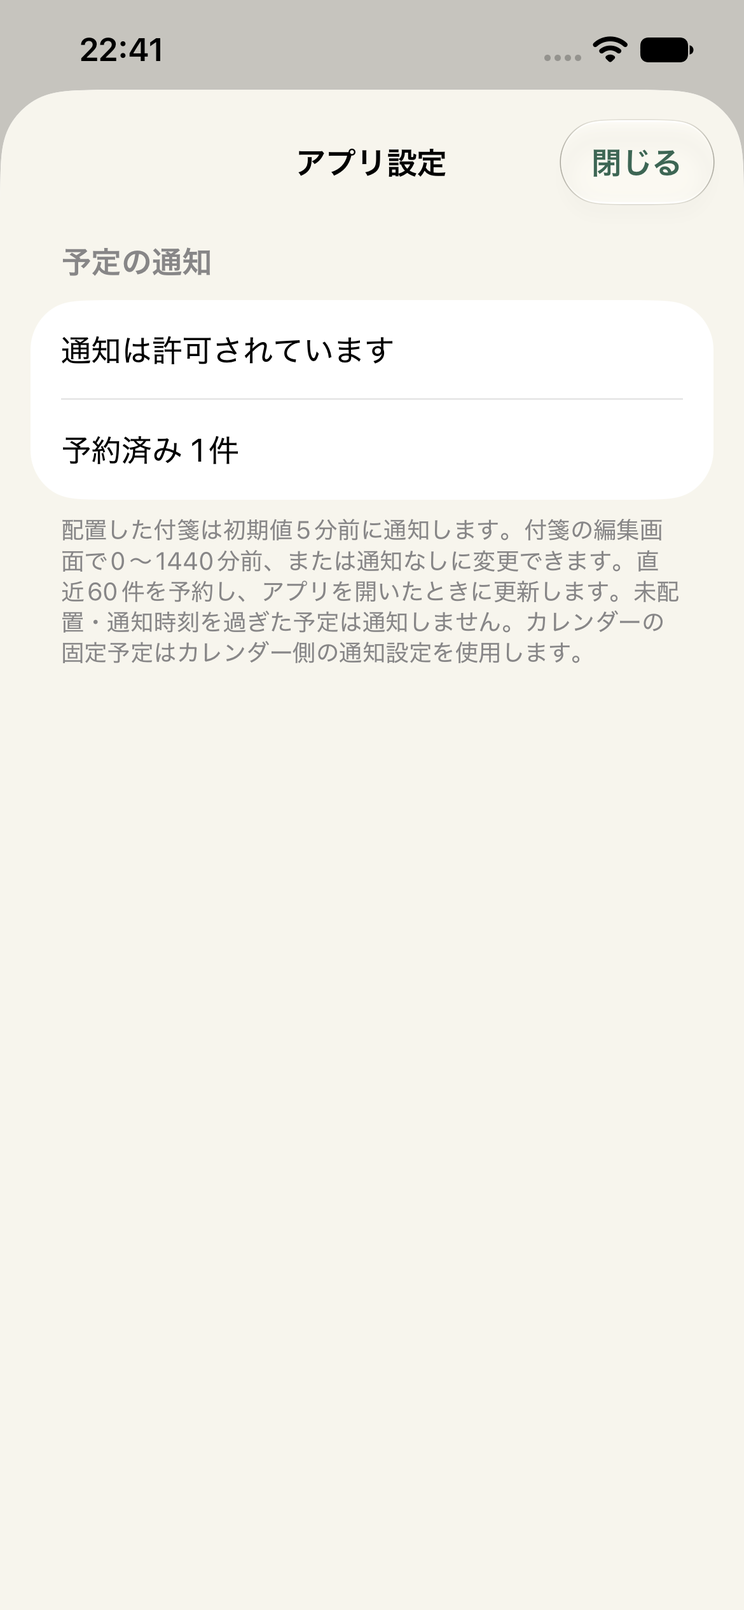
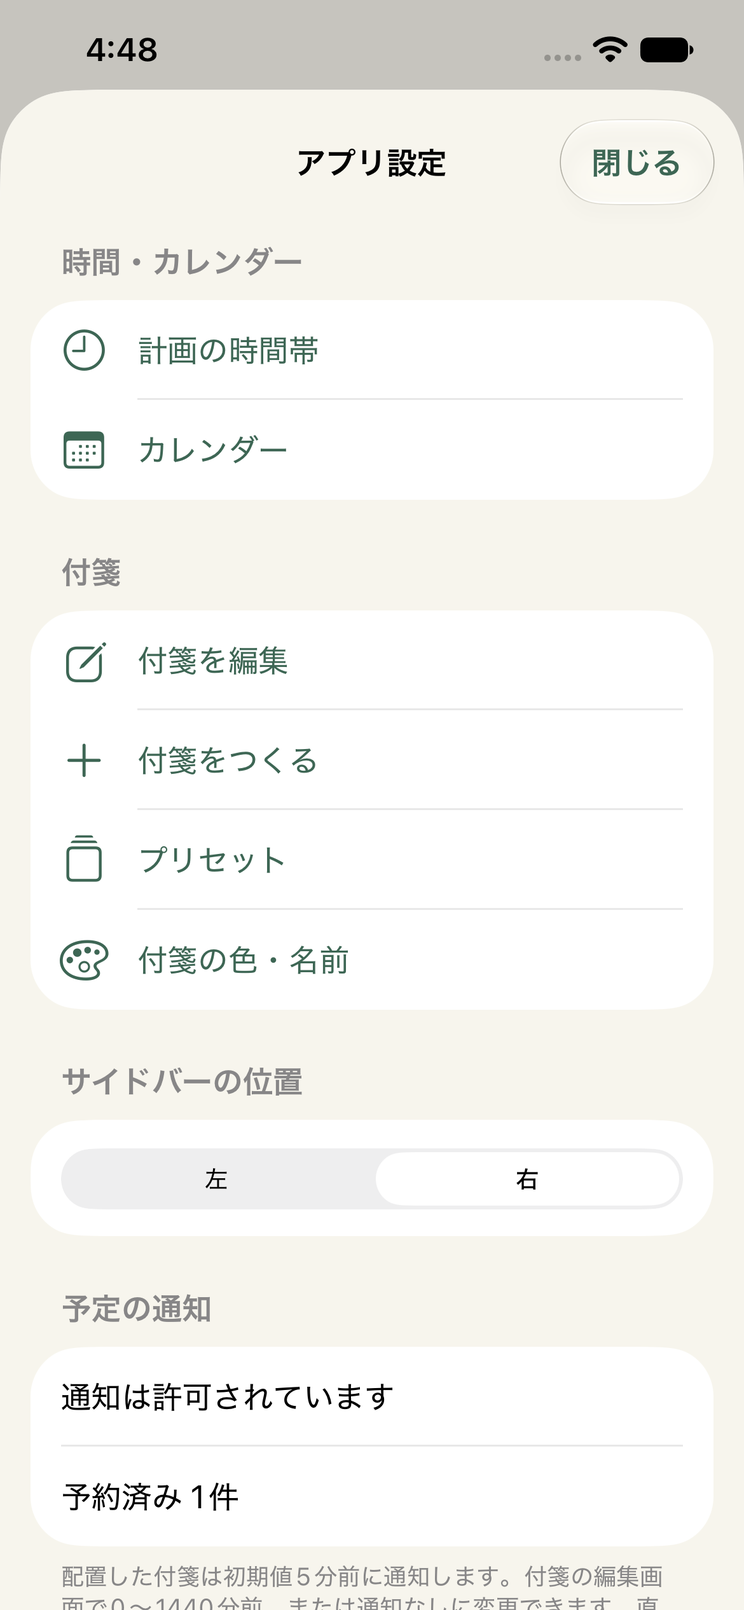
Consolidate planner configuration and sticky editing under settings

diff --git a/docs/screenshots/index.html b/docs/screenshots/index.html
@@ -1,1 +1,1 @@
-<!doctype html><html lang="ja"><meta charset="utf-8"><meta name="viewport" content="width=device-width,initial-scale=1"><title>予定館・実機能確認</title><style>body{background:#f7f5ed;color:#293b35;font:15px system-ui;margin:32px}h1{font-size:24px}.grid{display:grid;grid-template-columns:repeat(auto-fit,minmax(240px,1fr));gap:28px}figure{margin:0}img{width:100%;max-width:390px;border-radius:24px;box-shadow:0 8px 32px #293b3520}figcaption{margin:12px 0 20px}p{line-height:1.8}</style><h1>予定館 / シミュレーター動作確認</h1><p>iPhone 17e・iOS 27。XCTestで実際に操作した画面です。デモ表記のある画面はサンプル予定、カレンダー画面はシミュレーターのEventKitに登録した検証用予定を使用しています。</p><div class="grid"><figure><a href="01-day-planner.png"><img src="01-day-planner.png" alt="01-day-planner"></a><figcaption>01-day-planner</figcaption></figure><figure><a href="02-presets.png"><img src="02-presets.png" alt="02-presets"></a><figcaption>02-presets</figcaption></figure><figure><a href="03-sticky-editor.png"><img src="03-sticky-editor.png" alt="03-sticky-editor"></a><figcaption>03-sticky-editor</figcaption></figure><figure><a href="04-overlap-after-drag.png"><img src="04-overlap-after-drag.png" alt="04-overlap-after-drag"></a><figcaption>04-overlap-after-drag</figcaption></figure><figure><a href="05-resize-overlap.png"><img src="05-resize-overlap.png" alt="05-resize-overlap"></a><figcaption>05-resize-overlap</figcaption></figure><figure><a href="06-day-overview.png"><img src="06-day-overview.png" alt="06-day-overview"></a><figcaption>06-day-overview</figcaption></figure><figure><a href="07-calendar-settings.png"><img src="07-calendar-settings.png" alt="07-calendar-settings"></a><figcaption>07-calendar-settings</figcaption></figure><figure><a href="08-real-calendar-events.png"><img src="08-real-calendar-events.png" alt="08-real-calendar-events"></a><figcaption>08-real-calendar-events</figcaption></figure><figure><a href="09-start-time-drag.png"><img src="09-start-time-drag.png" alt="09-start-time-drag"></a><figcaption>09-start-time-drag</figcaption></figure><figure><a href="10-swipe-next-day.png"><img src="10-swipe-next-day.png" alt="10-swipe-next-day"></a><figcaption>10-swipe-next-day</figcaption></figure><figure><a href="11-color-settings.png"><img src="11-color-settings.png" alt="11-color-settings"></a><figcaption>11-color-settings</figcaption></figure><figure><a href="12-named-color-picker.png"><img src="12-named-color-picker.png" alt="12-named-color-picker"></a><figcaption>12-named-color-picker</figcaption></figure><figure><a href="13-custom-colors.png"><img src="13-custom-colors.png" alt="13-custom-colors"></a><figcaption>13-custom-colors</figcaption></figure><figure><a href="14-expanded-color-picker.png"><img src="14-expanded-color-picker.png" alt="14-expanded-color-picker"></a><figcaption>14-expanded-color-picker</figcaption></figure><figure><a href="15-five-am-plan.png"><img src="15-five-am-plan.png" alt="15-five-am-plan"></a><figcaption>15-five-am-plan</figcaption></figure><figure><a href="16-planning-hours-settings.png"><img src="16-planning-hours-settings.png" alt="16-planning-hours-settings"></a><figcaption>16-planning-hours-settings</figcaption></figure><figure><a href="17-custom-hours-and-outside-sticky.png"><img src="17-custom-hours-and-outside-sticky.png" alt="17-custom-hours-and-outside-sticky"></a><figcaption>17-custom-hours-and-outside-sticky</figcaption></figure><figure><a href="18-two-zone-planner.png"><img src="18-two-zone-planner.png" alt="18-two-zone-planner"></a><figcaption>18-two-zone-planner</figcaption></figure><figure><a href="19-detail-memo.png"><img src="19-detail-memo.png" alt="19-detail-memo"></a><figcaption>19-detail-memo</figcaption></figure><figure><a href="20-three-zone-planner.png"><img src="20-three-zone-planner.png" alt="20-three-zone-planner"></a><figcaption>20-three-zone-planner</figcaption></figure><figure><a href="21-switch-to-schedule-details.png"><img src="21-switch-to-schedule-details.png" alt="21-switch-to-schedule-details"></a><figcaption>21-switch-to-schedule-details</figcaption></figure><figure><a href="22-five-minute-zoom.png"><img src="22-five-minute-zoom.png" alt="22-five-minute-zoom"></a><figcaption>22-five-minute-zoom</figcaption></figure><figure><a href="23-five-minute-standard.png"><img src="23-five-minute-standard.png" alt="23-five-minute-standard"></a><figcaption>23-five-minute-standard</figcaption></figure><figure><a href="24-pinch-timeline.png"><img src="24-pinch-timeline.png" alt="24-pinch-timeline"></a><figcaption>24-pinch-timeline</figcaption></figure><figure><a href="25-scroll-on-event.png"><img src="25-scroll-on-event.png" alt="25-scroll-on-event"></a><figcaption>25-scroll-on-event</figcaption></figure><figure><a href="26-daily-preset-count.png"><img src="26-daily-preset-count.png" alt="26-daily-preset-count"></a><figcaption>26-daily-preset-count</figcaption></figure><figure><a href="27-daily-stickies.png"><img src="27-daily-stickies.png" alt="27-daily-stickies"></a><figcaption>27-daily-stickies</figcaption></figure><figure><a href="28-fullscreen-day-timeline.png"><img src="28-fullscreen-day-timeline.png" alt="28-fullscreen-day-timeline"></a><figcaption>28-fullscreen-day-timeline</figcaption></figure><figure><a href="30-fullscreen-entry.png"><img src="30-fullscreen-entry.png" alt="30-fullscreen-entry"></a><figcaption>30-fullscreen-entry</figcaption></figure><figure><a href="31-folded-short-events.png"><img src="31-folded-short-events.png" alt="31-folded-short-events"></a><figcaption>31-folded-short-events</figcaption></figure><figure><a href="32-sticky-reminder.png"><img src="32-sticky-reminder.png" alt="32-sticky-reminder"></a><figcaption>32-sticky-reminder</figcaption></figure><figure><a href="33-reminder-settings.png"><img src="33-reminder-settings.png" alt="33-reminder-settings"></a><figcaption>33-reminder-settings</figcaption></figure><figure><a href="34-sidebar-position-settings.png"><img src="34-sidebar-position-settings.png" alt="34-sidebar-position-settings"></a><figcaption>34-sidebar-position-settings</figcaption></figure><figure><a href="35-sidebar-left.png"><img src="35-sidebar-left.png" alt="35-sidebar-left"></a><figcaption>35-sidebar-left</figcaption></figure><figure><a href="36-sidebar-left-landscape.png"><img src="36-sidebar-left-landscape.png" alt="36-sidebar-left-landscape"></a><figcaption>36-sidebar-left-landscape</figcaption></figure></div></html>
+<!doctype html><html lang="ja"><meta charset="utf-8"><meta name="viewport" content="width=device-width,initial-scale=1"><title>予定館・実機能確認</title><style>body{background:#f7f5ed;color:#293b35;font:15px system-ui;margin:32px}h1{font-size:24px}.grid{display:grid;grid-template-columns:repeat(auto-fit,minmax(240px,1fr));gap:28px}figure{margin:0}img{width:100%;max-width:390px;border-radius:24px;box-shadow:0 8px 32px #293b3520}figcaption{margin:12px 0 20px}p{line-height:1.8}</style><h1>予定館 / シミュレーター動作確認</h1><p>iPhone 17e・iOS 27。XCTestで実際に操作した画面です。デモ表記のある画面はサンプル予定、カレンダー画面はシミュレーターのEventKitに登録した検証用予定を使用しています。</p><div class="grid"><figure><a href="01-day-planner.png"><img src="01-day-planner.png" alt="01-day-planner"></a><figcaption>01-day-planner</figcaption></figure><figure><a href="02-presets.png"><img src="02-presets.png" alt="02-presets"></a><figcaption>02-presets</figcaption></figure><figure><a href="03-sticky-editor.png"><img src="03-sticky-editor.png" alt="03-sticky-editor"></a><figcaption>03-sticky-editor</figcaption></figure><figure><a href="04-overlap-after-drag.png"><img src="04-overlap-after-drag.png" alt="04-overlap-after-drag"></a><figcaption>04-overlap-after-drag</figcaption></figure><figure><a href="05-resize-overlap.png"><img src="05-resize-overlap.png" alt="05-resize-overlap"></a><figcaption>05-resize-overlap</figcaption></figure><figure><a href="06-day-overview.png"><img src="06-day-overview.png" alt="06-day-overview"></a><figcaption>06-day-overview</figcaption></figure><figure><a href="07-calendar-settings.png"><img src="07-calendar-settings.png" alt="07-calendar-settings"></a><figcaption>07-calendar-settings</figcaption></figure><figure><a href="08-real-calendar-events.png"><img src="08-real-calendar-events.png" alt="08-real-calendar-events"></a><figcaption>08-real-calendar-events</figcaption></figure><figure><a href="09-start-time-drag.png"><img src="09-start-time-drag.png" alt="09-start-time-drag"></a><figcaption>09-start-time-drag</figcaption></figure><figure><a href="10-swipe-next-day.png"><img src="10-swipe-next-day.png" alt="10-swipe-next-day"></a><figcaption>10-swipe-next-day</figcaption></figure><figure><a href="11-color-settings.png"><img src="11-color-settings.png" alt="11-color-settings"></a><figcaption>11-color-settings</figcaption></figure><figure><a href="12-named-color-picker.png"><img src="12-named-color-picker.png" alt="12-named-color-picker"></a><figcaption>12-named-color-picker</figcaption></figure><figure><a href="13-custom-colors.png"><img src="13-custom-colors.png" alt="13-custom-colors"></a><figcaption>13-custom-colors</figcaption></figure><figure><a href="14-expanded-color-picker.png"><img src="14-expanded-color-picker.png" alt="14-expanded-color-picker"></a><figcaption>14-expanded-color-picker</figcaption></figure><figure><a href="15-five-am-plan.png"><img src="15-five-am-plan.png" alt="15-five-am-plan"></a><figcaption>15-five-am-plan</figcaption></figure><figure><a href="16-planning-hours-settings.png"><img src="16-planning-hours-settings.png" alt="16-planning-hours-settings"></a><figcaption>16-planning-hours-settings</figcaption></figure><figure><a href="17-custom-hours-and-outside-sticky.png"><img src="17-custom-hours-and-outside-sticky.png" alt="17-custom-hours-and-outside-sticky"></a><figcaption>17-custom-hours-and-outside-sticky</figcaption></figure><figure><a href="18-two-zone-planner.png"><img src="18-two-zone-planner.png" alt="18-two-zone-planner"></a><figcaption>18-two-zone-planner</figcaption></figure><figure><a href="19-detail-memo.png"><img src="19-detail-memo.png" alt="19-detail-memo"></a><figcaption>19-detail-memo</figcaption></figure><figure><a href="20-three-zone-planner.png"><img src="20-three-zone-planner.png" alt="20-three-zone-planner"></a><figcaption>20-three-zone-planner</figcaption></figure><figure><a href="21-switch-to-schedule-details.png"><img src="21-switch-to-schedule-details.png" alt="21-switch-to-schedule-details"></a><figcaption>21-switch-to-schedule-details</figcaption></figure><figure><a href="22-five-minute-zoom.png"><img src="22-five-minute-zoom.png" alt="22-five-minute-zoom"></a><figcaption>22-five-minute-zoom</figcaption></figure><figure><a href="23-five-minute-standard.png"><img src="23-five-minute-standard.png" alt="23-five-minute-standard"></a><figcaption>23-five-minute-standard</figcaption></figure><figure><a href="24-pinch-timeline.png"><img src="24-pinch-timeline.png" alt="24-pinch-timeline"></a><figcaption>24-pinch-timeline</figcaption></figure><figure><a href="25-scroll-on-event.png"><img src="25-scroll-on-event.png" alt="25-scroll-on-event"></a><figcaption>25-scroll-on-event</figcaption></figure><figure><a href="26-daily-preset-count.png"><img src="26-daily-preset-count.png" alt="26-daily-preset-count"></a><figcaption>26-daily-preset-count</figcaption></figure><figure><a href="27-daily-stickies.png"><img src="27-daily-stickies.png" alt="27-daily-stickies"></a><figcaption>27-daily-stickies</figcaption></figure><figure><a href="28-fullscreen-day-timeline.png"><img src="28-fullscreen-day-timeline.png" alt="28-fullscreen-day-timeline"></a><figcaption>28-fullscreen-day-timeline</figcaption></figure><figure><a href="30-fullscreen-entry.png"><img src="30-fullscreen-entry.png" alt="30-fullscreen-entry"></a><figcaption>30-fullscreen-entry</figcaption></figure><figure><a href="31-folded-short-events.png"><img src="31-folded-short-events.png" alt="31-folded-short-events"></a><figcaption>31-folded-short-events</figcaption></figure><figure><a href="32-sticky-reminder.png"><img src="32-sticky-reminder.png" alt="32-sticky-reminder"></a><figcaption>32-sticky-reminder</figcaption></figure><figure><a href="33-reminder-settings.png"><img src="33-reminder-settings.png" alt="33-reminder-settings"></a><figcaption>33-reminder-settings</figcaption></figure><figure><a href="34-sidebar-position-settings.png"><img src="34-sidebar-position-settings.png" alt="34-sidebar-position-settings"></a><figcaption>34-sidebar-position-settings</figcaption></figure><figure><a href="35-sidebar-left.png"><img src="35-sidebar-left.png" alt="35-sidebar-left"></a><figcaption>35-sidebar-left</figcaption></figure><figure><a href="36-sidebar-left-landscape.png"><img src="36-sidebar-left-landscape.png" alt="36-sidebar-left-landscape"></a><figcaption>36-sidebar-left-landscape</figcaption></figure><figure><a href="37-unified-settings.png"><img src="37-unified-settings.png" alt="37-unified-settings"></a><figcaption>37-unified-settings</figcaption></figure><figure><a href="38-settings-sticky-list.png"><img src="38-settings-sticky-list.png" alt="38-settings-sticky-list"></a><figcaption>38-settings-sticky-list</figcaption></figure></div></html>

diff --git a/ios/YoteikanUITests/YoteikanUITests.swift b/ios/YoteikanUITests/YoteikanUITests.swift
@@ -5,6 +5,50 @@ final class YoteikanUITests: XCTestCase {
     override func setUpWithError() throws { continueAfterFailure = false; XCUIDevice.shared.orientation = .portrait }
     func launch(_ args: [String] = ["--demo"]) { app = XCUIApplication(); app.launchArguments = args; app.launch(); XCTAssertTrue(app.buttons["presetsButton"].waitForExistence(timeout: 10)) }
     func shot(_ name: String) { let attachment = XCTAttachment(screenshot: app.screenshot()); attachment.name = name; attachment.lifetime = .keepAlways; add(attachment) }
+    private func openSetting(_ identifier: String) {
+        app.buttons["plannerSettings"].tap()
+        let action = app.buttons[identifier]
+        for _ in 0..<3 {
+            if action.isHittable { break }
+            app.swipeUp()
+        }
+        action.tap()
+    }
+    func test30UnifiedSettingsAndStickyEditing() {
+        launch(["--reset-test-data", "--demo"])
+        XCTAssertFalse(app.buttons["hoursSettings"].exists)
+        XCTAssertFalse(app.buttons["colorSettings"].exists)
+        XCTAssertFalse(app.buttons["calendarSettings"].exists)
+        app.buttons["plannerSettings"].tap()
+        XCTAssertTrue(app.buttons["hoursSettings"].exists)
+        XCTAssertTrue(app.buttons["calendarSettings"].exists)
+        XCTAssertTrue(app.buttons["colorSettings"].exists)
+        shot("37-unified-settings")
+        app.buttons["settingsEditStickies"].tap()
+        app.buttons["settingsSticky-朝の読書"].tap()
+        XCTAssertTrue(app.textFields["stickyTitle"].waitForExistence(timeout: 3))
+        XCTAssertEqual(app.textFields["stickyTitle"].value as? String, "朝の読書")
+        app.buttons["duration-45"].tap()
+        app.buttons["saveSticky"].tap()
+        XCTAssertTrue(app.buttons["plannerSettings"].waitForExistence(timeout: 3))
+        openSetting("settingsEditStickies")
+        XCTAssertTrue(app.buttons["settingsSticky-朝の読書"].waitForExistence(timeout: 3))
+        shot("38-settings-sticky-list")
+        app.buttons["closeSettingsStickies"].tap()
+        XCTAssertEqual(app.otherElements["task-朝の読書"].value as? String, "08:00|45")
+        openSetting("settingsPresets")
+        XCTAssertTrue(app.buttons["newPreset"].waitForExistence(timeout: 3))
+        app.buttons["closePresets"].tap()
+        openSetting("hoursSettings")
+        XCTAssertTrue(app.buttons["saveHours"].waitForExistence(timeout: 3))
+        app.buttons["cancelHours"].tap()
+        openSetting("colorSettings")
+        XCTAssertTrue(app.buttons["saveColorNames"].waitForExistence(timeout: 3))
+        app.buttons["キャンセル"].tap()
+        openSetting("calendarSettings")
+        XCTAssertTrue(app.buttons["closeCalendar"].waitForExistence(timeout: 3))
+        app.buttons["closeCalendar"].tap()
+    }
     func test29SidebarPositionPersistsAndSupportsDragAndDetails() {
         launch(["--reset-test-data", "--demo"])
         let schedule = app.otherElements["scheduleZone"]
@@ -57,6 +101,12 @@ final class YoteikanUITests: XCTestCase {
         app.buttons["closePlannerSettings"].tap()
         XCTAssertLessThanOrEqual(schedule.frame.maxX, side.frame.minX)
     }
+    private func revealReminderSettings() {
+        for _ in 0..<4 {
+            if app.buttons["enableReminders"].isHittable || app.staticTexts["scheduledReminders"].isHittable { return }
+            app.swipeUp()
+        }
+    }
     func test28ReminderSettingsPersistAndSchedule() {
         launch(["--reset-test-data"])
         app.buttons["次の日"].tap()
@@ -77,6 +127,7 @@ final class YoteikanUITests: XCTestCase {
         note.coordinate(withNormalizedOffset: CGVector(dx: 0.5, dy: 0.5)).press(forDuration: 0.7, thenDragTo: app.scrollViews["timeline"].coordinate(withNormalizedOffset: CGVector(dx: 0.55, dy: 0.2)))
         XCTAssertTrue(app.otherElements["task-通知確認"].waitForExistence(timeout: 3))
         app.buttons["plannerSettings"].tap()
+        revealReminderSettings()
         if app.buttons["enableReminders"].exists {
             app.buttons["enableReminders"].tap()
             let alert = XCUIApplication(bundleIdentifier: "com.apple.springboard").alerts.firstMatch
@@ -104,6 +155,7 @@ final class YoteikanUITests: XCTestCase {
         XCTAssertFalse(app.steppers["reminderMinutes"].exists)
         app.buttons["saveSticky"].tap()
         app.buttons["plannerSettings"].tap()
+        revealReminderSettings()
         XCTAssertTrue(NSPredicate(format: "label CONTAINS '0件'").evaluate(with: app.staticTexts["scheduledReminders"]))
     }
     func test01DemoAndPresets() {
@@ -171,7 +223,7 @@ final class YoteikanUITests: XCTestCase {
     }
     func test05CalendarAccessAndRealEventKitRead() {
         launch(["--calendar-test"])
-        app.buttons["calendarSettings"].tap()
+        openSetting("calendarSettings")
         if app.buttons["requestCalendar"].exists {
             app.buttons["requestCalendar"].tap()
             let springboard = XCUIApplication(bundleIdentifier: "com.apple.springboard")
@@ -201,7 +253,7 @@ final class YoteikanUITests: XCTestCase {
     }
     func test07CalendarSelectionChangesVisibleEvents() {
         launch(["--calendar-test"])
-        app.buttons["calendarSettings"].tap()
+        openSetting("calendarSettings")
         let toggle = app.switches["calendar-予定館・動作確認用"].firstMatch
         XCTAssertTrue(toggle.waitForExistence(timeout: 3))
         XCTAssertEqual(toggle.value as? String, "1")
@@ -209,7 +261,7 @@ final class YoteikanUITests: XCTestCase {
         XCTAssertEqual(toggle.value as? String, "0")
         app.buttons["closeCalendar"].tap()
         XCTAssertFalse(app.descendants(matching: .any).matching(identifier: "fixed-チームミーティング").firstMatch.exists)
-        app.buttons["calendarSettings"].tap(); toggle.coordinate(withNormalizedOffset: CGVector(dx: 0.9, dy: 0.5)).tap(); app.buttons["closeCalendar"].tap()
+        openSetting("calendarSettings"); toggle.coordinate(withNormalizedOffset: CGVector(dx: 0.9, dy: 0.5)).tap(); app.buttons["closeCalendar"].tap()
         XCTAssertTrue(app.descendants(matching: .any).matching(identifier: "fixed-チームミーティング").firstMatch.waitForExistence(timeout: 3))
     }
 
@@ -317,13 +369,13 @@ final class YoteikanUITests: XCTestCase {
         app.textFields["stickyTitle"].typeText("色の確認")
         app.buttons["color-1"].tap()
         app.buttons["saveSticky"].tap()
-        app.buttons["colorSettings"].tap()
+        openSetting("colorSettings")
         let name = app.textFields["color-name-1"]
         XCTAssertEqual(name.value as? String, "仕事")
         name.tap()
         name.typeText(String(repeating: XCUIKeyboardKey.delete.rawValue, count: 2) + "集中")
         app.buttons["saveColorNames"].tap()
-        app.buttons["colorSettings"].tap()
+        openSetting("colorSettings")
         XCTAssertEqual(app.textFields["color-name-1"].value as? String, "集中")
         shot("11-color-settings")
         app.buttons["キャンセル"].tap()
@@ -349,7 +401,7 @@ final class YoteikanUITests: XCTestCase {
     }
     func test13AddEditAndDeleteColorWithReplacement() {
         launch(["--reset-test-data"])
-        app.buttons["colorSettings"].tap()
+        openSetting("colorSettings")
         app.buttons["addColor"].tap()
         let name = app.textFields["color-name-4"]
         if !name.isHittable { app.swipeUp() }
@@ -359,7 +411,7 @@ final class YoteikanUITests: XCTestCase {
         hex.tap()
         hex.typeText(String(repeating: XCUIKeyboardKey.delete.rawValue, count: 6) + "C3D5F2")
         app.buttons["saveColorNames"].tap()
-        app.buttons["colorSettings"].tap()
+        openSetting("colorSettings")
         XCTAssertEqual(app.textFields["color-name-4"].value as? String, "趣味")
         XCTAssertEqual(app.textFields["color-hex-4"].value as? String, "C3D5F2")
         shot("13-custom-colors")
@@ -380,7 +432,7 @@ final class YoteikanUITests: XCTestCase {
         app.buttons["color-4"].tap()
         app.buttons["savePreset"].tap()
         app.buttons["closePresets"].tap()
-        app.buttons["colorSettings"].tap()
+        openSetting("colorSettings")
         let remove = app.buttons["delete-color-4"]
         if !remove.isHittable { app.swipeUp() }
         remove.tap()
@@ -434,7 +486,7 @@ final class YoteikanUITests: XCTestCase {
         app.textFields["stickyTitle"].tap()
         app.textFields["stickyTitle"].typeText("夜の計画")
         app.buttons["saveSticky"].tap()
-        app.buttons["hoursSettings"].tap()
+        openSetting("hoursSettings")
         chooseHour("20:00", picker: "planningStart")
         chooseHour("22:00", picker: "planningEnd")
         shot("16-planning-hours-settings")
@@ -445,12 +497,12 @@ final class YoteikanUITests: XCTestCase {
         XCTAssertFalse(app.staticTexts["05:00"].exists)
         XCTAssertTrue(app.staticTexts["2時間"].exists)
         app.terminate(); launch([])
-        app.buttons["hoursSettings"].tap()
+        openSetting("hoursSettings")
         XCTAssertTrue(app.buttons["planningStart"].label.contains("20:00"))
         XCTAssertTrue(app.buttons["planningEnd"].label.contains("22:00"))
         chooseHour("19:00", picker: "planningStart")
         app.buttons["cancelHours"].tap()
-        app.buttons["hoursSettings"].tap()
+        openSetting("hoursSettings")
         XCTAssertTrue(app.buttons["planningStart"].label.contains("20:00"))
         app.buttons["cancelHours"].tap()
         let timeline = app.scrollViews["timeline"]
@@ -461,7 +513,7 @@ final class YoteikanUITests: XCTestCase {
         revealInbox(evening)
         evening.coordinate(withNormalizedOffset: CGVector(dx: 0.5, dy: 0.5)).press(forDuration: 0.7, thenDragTo: target)
         XCTAssertEqual(app.otherElements["task-夜の計画"].value as? String, "20:00|30")
-        app.buttons["hoursSettings"].tap()
+        openSetting("hoursSettings")
         chooseHour("21:00", picker: "planningStart")
         app.buttons["saveHours"].tap()
         XCTAssertFalse(app.otherElements["task-夜の計画"].exists)

diff --git a/ios/Yoteikan/Editors.swift b/ios/Yoteikan/Editors.swift
@@ -278,7 +278,31 @@ struct CalendarSettingsView: View {
     }
 }
 
+enum PlannerSetting { case hours, colors, calendar, presets, stickies, newSticky }
+
+struct PlannerSettingsFlow: View {
+    @EnvironmentObject private var plans: PlanStore
+    @State private var destination: PlannerSetting?
+    @State private var editing: Sticky?
+    var body: some View {
+        Group {
+            if let task = editing { StickyEditor(task: task, isNew: false) }
+            else if let destination {
+                switch destination {
+                case .hours: PlanningHoursEditor(hours: plans.hours)
+                case .calendar: CalendarSettingsView()
+                case .colors: ColorNamesEditor(colors: plans.plan.colors)
+                case .presets: PresetsView()
+                case .newSticky: StickyEditor(task: Sticky(title: "", minutes: 30, day: dayKey(plans.date)), isNew: true)
+                case .stickies: SettingsStickyList { editing = $0 }
+                }
+            } else { PlannerSettingsView { destination = $0 } }
+        }
+    }
+}
+
 struct PlannerSettingsView: View {
+    let open: (PlannerSetting) -> Void
     @AppStorage("planner.sidebarLeading") private var sidebarLeading = false
     @EnvironmentObject private var reminders: ReminderStore
     @Environment(\.dismiss) private var dismiss
@@ -286,6 +310,16 @@ struct PlannerSettingsView: View {
     var body: some View {
         NavigationStack {
             Form {
+                Section("時間・カレンダー") {
+                    Button { open(.hours) } label: { Label("計画の時間帯", systemImage: "clock") }.accessibilityIdentifier("hoursSettings")
+                    Button { open(.calendar) } label: { Label("カレンダー", systemImage: "calendar") }.accessibilityIdentifier("calendarSettings")
+                }
+                Section("付箋") {
+                    Button { open(.stickies) } label: { Label("付箋を編集", systemImage: "square.and.pencil") }.accessibilityIdentifier("settingsEditStickies")
+                    Button { open(.newSticky) } label: { Label("付箋をつくる", systemImage: "plus") }.accessibilityIdentifier("settingsNewSticky")
+                    Button { open(.presets) } label: { Label("プリセット", systemImage: "square.stack") }.accessibilityIdentifier("settingsPresets")
+                    Button { open(.colors) } label: { Label("付箋の色・名前", systemImage: "paintpalette") }.accessibilityIdentifier("colorSettings")
+                }
                 Section("サイドバーの位置") {
                     Picker("付箋・詳細", selection: $sidebarLeading) {
                         Text("左").tag(true)
@@ -310,6 +344,37 @@ struct PlannerSettingsView: View {
             }.scrollContentBackground(.hidden).background(paper)
                 .navigationTitle("アプリ設定").navigationBarTitleDisplayMode(.inline)
                 .toolbar { ToolbarItem(placement: .confirmationAction) { Button("閉じる") { dismiss() }.accessibilityIdentifier("closePlannerSettings") } }
+        }
+    }
+}
+
+struct SettingsStickyList: View {
+    let select: (Sticky) -> Void
+    @EnvironmentObject private var plans: PlanStore
+    @Environment(\.dismiss) private var dismiss
+    var body: some View {
+        NavigationStack {
+            List {
+                Section(plans.date.formatted(.dateTime.month().day().weekday(.wide))) {
+                    if plans.today.isEmpty { Text("この日の付箋はありません").foregroundStyle(.secondary) }
+                    ForEach(plans.today.sorted { ($0.start ?? 1441) < ($1.start ?? 1441) }) { task in
+                        Button { select(task) } label: {
+                            HStack {
+                                RoundedRectangle(cornerRadius: 3).fill(plans.paletteColor(for: task.tone).color).frame(width: 6)
+                                VStack(alignment: .leading, spacing: 4) {
+                                    Text(task.title).foregroundStyle(ink)
+                                    Text(task.start.map { "\(clockText($0))〜\(clockText($0 + task.minutes))" } ?? "未配置・\(durationText(task.minutes))")
+                                        .font(.caption).foregroundStyle(.secondary)
+                                }
+                                Spacer()
+                                Image(systemName: "chevron.right").font(.caption).foregroundStyle(.secondary)
+                            }.contentShape(Rectangle())
+                        }.buttonStyle(.plain).accessibilityIdentifier("settingsSticky-\(task.title)")
+                    }
+                }
+            }.scrollContentBackground(.hidden).background(paper)
+                .navigationTitle("付箋を編集").navigationBarTitleDisplayMode(.inline)
+                .toolbar { ToolbarItem(placement: .confirmationAction) { Button("閉じる") { dismiss() }.accessibilityIdentifier("closeSettingsStickies") } }
         }
     }
 }

diff --git a/ios/Yoteikan/PlannerView.swift b/ios/Yoteikan/PlannerView.swift
@@ -211,8 +211,6 @@ struct PlannerView: View {
     @Environment(\.scenePhase) private var phase
     @State private var showPresets = false
     @State private var showCalendar = false
-    @State private var showColors = false
-    @State private var showHours = false
     @State private var showNew = false
     @State private var editing: Sticky?
     @State private var selected: UUID?
@@ -300,14 +298,12 @@ struct PlannerView: View {
         }
         .background(paper).foregroundStyle(ink)
         .safeAreaInset(edge: .bottom, spacing: 0) { bottomBar }
-        .sheet(isPresented: $showSettings) { PlannerSettingsView() }
+        .sheet(isPresented: $showSettings) { PlannerSettingsFlow() }
         .sheet(isPresented: $showPresets) { PresetsView() }
         .fullScreenCover(isPresented: $showFullDay) {
             FullDayOverview(date: plans.date, hours: plans.hours, stickies: plans.today, fixed: fixed, colors: plans.plan.colors)
         }
         .sheet(isPresented: $showCalendar) { CalendarSettingsView() }
-        .sheet(isPresented: $showColors) { ColorNamesEditor(colors: plans.plan.colors) }
-        .sheet(isPresented: $showHours) { PlanningHoursEditor(hours: plans.hours) }
         .sheet(isPresented: $showDetails) {
             NavigationStack {
                 memoPane.navigationTitle("詳細メモ").navigationBarTitleDisplayMode(.inline)
@@ -398,17 +394,8 @@ struct PlannerView: View {
     private var header: some View {
         HStack(spacing: 0) {
             Button { showSettings = true } label: {
-                Image(systemName: "gearshape").font(.system(size: 17)).frame(width: 36, height: 44)
+                Image(systemName: "gearshape").font(.system(size: 17)).frame(width: 44, height: 44)
             }.accessibilityLabel("アプリ設定").accessibilityIdentifier("plannerSettings")
-            Button { showHours = true } label: {
-                Image(systemName: "clock").font(.system(size: 17)).frame(width: 44, height: 44)
-            }.accessibilityLabel("計画の時間帯").accessibilityIdentifier("hoursSettings")
-            Button { showColors = true } label: {
-                Image(systemName: "paintpalette").font(.system(size: 17)).frame(width: 44, height: 44)
-            }.accessibilityLabel("付箋の色を設定").accessibilityIdentifier("colorSettings")
-            Button { showCalendar = true } label: {
-                Image(systemName: "calendar.badge.clock").font(.system(size: 17)).frame(width: 44, height: 44)
-            }.accessibilityLabel("カレンダー設定").accessibilityIdentifier("calendarSettings")
         }
     }
     private var dateBar: some View {

diff --git a/README.md b/README.md
@@ -34,7 +34,10 @@ macOSと、iOS 17以降をビルドできるXcodeが必要です。
 
 ## 使い方
 
-1. 右上のカレンダー設定でアクセスを許可し、表示するカレンダーを選ぶ。
+上部の設定入口は歯車にまとめています。時間帯、カレンダー、付箋の編集・作成、プリセット、色と名前、サイドバー位置、通知をここから開けます。「付箋を編集」では表示中の日の配置済み・未配置の付箋を選んで編集できます。
+
+
+1. 右上の歯車→「カレンダー」でアクセスを許可し、表示するカレンダーを選ぶ。
 2. 右の付箋ゾーンの「プリセット」で毎日の個数を設定する。設定した枚数が各日の付箋置き場へ自動で追加される。その日だけの用事は「つくる」から作成する。
 3. 右に貯めた付箋を長押しし、左の時間割へドラッグする。
 4. 配置した付箋をタップして選び、右上の↕を上下にドラッグして開始時刻を変更する。付箋全体を長押しして移動する方法も使える。下端のつまみでは長さを変更する。
@@ -52,9 +55,9 @@ macOSと、iOS 17以降をビルドできるXcodeが必要です。
 
 時間割を2本の指で広げると拡大、狭めると縮小します。1〜8倍の間を連続して調整し、指の間の時間帯を基準に表示を保ちます。＋／−では次の1・2・4・8倍へ切り替えられます。その右の全日表示アイコンで1日を見渡し、再度押すと直前の拡大率に戻ります。全日表示から指を広げても拡大表示に戻れます。4倍以上では5分刻みの目盛りを表示し、8倍では5分の付箋もつまみで移動・伸縮できます。小さい表示では付箋を時間枠内に収め、入りきらない文字やつまみを省略します。拡大率はアプリを起動し直すと1倍になります。
 
-右上のパレットで、色と名前を追加・編集できます。色はカラーピッカーまたは6桁のカラーコードで指定します。削除するときは付け替え先を選び、保存すると全日付の付箋・プリセットに反映されます。最後の1色は削除できません。キャンセルで編集を破棄し、「元に戻す」で保存前に戻せます。付箋の内容や時間は保持されます。
+歯車→「付箋の色・名前」で、色と名前を追加・編集できます。色はカラーピッカーまたは6桁のカラーコードで指定します。削除するときは付け替え先を選び、保存すると全日付の付箋・プリセットに反映されます。最後の1色は削除できません。キャンセルで編集を破棄し、「元に戻す」で保存前に戻せます。付箋の内容や時間は保持されます。
 
-右上の時計ボタンから、計画の開始・終了時刻を選べます。初期値は5:00〜24:00で、0:00〜24:00の中から1時間単位で設定し、全日共通で保存します。付箋の移動は5分刻みです。範囲から外れた付箋は元の時刻を保って右のゾーンに「時間外」と表示されます。カレンダーの固定予定は、このアプリから変更できません。
+歯車→「計画の時間帯」から、計画の開始・終了時刻を選べます。初期値は5:00〜24:00で、0:00〜24:00の中から1時間単位で設定し、全日共通で保存します。付箋の移動は5分刻みです。範囲から外れた付箋は元の時刻を保って右のゾーンに「時間外」と表示されます。カレンダーの固定予定は、このアプリから変更できません。
 
 歯車のアプリ設定、または付箋編集で通知を許可すると、配置した付箋の通知を予約します。初期値は5分前で、付箋編集から変更できます。未配置・通知時刻を過ぎた付箋は通知しません。直近60件を予約し、起動・編集時に更新します。カレンダーの固定予定はカレンダー側の通知設定を使用します。
 
@@ -69,7 +72,7 @@ macOSと、iOS 17以降をビルドできるXcodeが必要です。
 | [開発・検証手順](docs/development.md) | 技術構成、ビルド・テスト、Goによるスクショ出力、テスト用の起動引数 |
 | [動作確認](docs/verification.md) | 確認した操作、検証環境、実機で未確認の項目 |
 | [Issue #18〜#20](docs/issues-18-20.md) | 表示の削除、予定上のスクロール、毎日の自動追加 |
-| [スクリーンショット35枚](docs/screenshots/README.md) | 実際に操作して取得した画面 |
+| [スクリーンショット37枚](docs/screenshots/README.md) | 実際に操作して取得した画面 |
 | [テスト結果の抜粋](docs/test-results.txt) | 全体確認と、改善ごとの関連操作の検証記録 |
 
 ## 技術構成

diff --git a/docs/verification.md b/docs/verification.md
@@ -4,7 +4,16 @@
 
 Issue #18・#19・#20を含め、ユニット23件・UI25件の全48件が成功しました（1件の再実行を含む）。スクリーンショット抽出・一覧作成ツールはGoで実装しています。Pythonへの依存はありません。
 
+## 設定入口の統合（2026年10月27日）
+
+- 上部は歯車だけにし、設定から時間帯・カレンダー・付箋編集／作成・プリセット・色と名前・サイドバー位置・通知へアクセス。
+- 表示日の付箋一覧から編集し、保存後の時刻・所要時間と計画画面への復帰を確認。時間帯・色・カレンダー・プリセットの各画面の往復も確認。
+- 左右位置・メモ下書きの保持と、通知設定の保存・実際のOS予約／取消を含むUI3件が成功。
+- 結果: artifacts/SettingsFlowRegression.xcresult / artifacts/settings-flow-regression.log（通知・左右位置のUI成功）、artifacts/SettingsFlowVerified.xcresult / artifacts/settings-flow-verified.log（設定統合UI成功）。設定から編集画面への遷移を同じシート内で切り替える構成に調整して再実行。
+- [設定画面](screenshots/37-unified-settings.png) / [編集する付箋の選択](screenshots/38-settings-sticky-list.png)。実機は未確認。
+
 ## Issue #23：サイドバーの左右選択
+
 
 - 左右の選択・保存・再起動後の保持、詳細への切り替え、左からの配置と戻し、横画面の3ゾーン、左右を切り替えてもメモ下書きが残ることを確認。
 - 従来の右サイドバーの基本画面と横画面も再確認。UI3件成功。

diff --git a/docs/design.md b/docs/design.md
@@ -119,6 +119,10 @@ hoursのない旧データや不正な時間帯は5:00〜24:00を補い、付箋
 
 SwiftUIの状態管理とPlanStore / CalendarStoreで構成し、バックエンドは置かない。補助ツールにはGoを使用する。
 
+## 設定の入口
+
+上部の時計・パレット・カレンダーボタンを歯車に統合する。設定には計画の時間帯、カレンダー、付箋の編集・作成、プリセット、色と名前、サイドバー位置、通知を置く。設定画面と各編集画面を同じシート内で切り替え、保存・キャンセルで計画画面へ戻る。付箋編集用の一覧は表示中の日付を対象にし、配置済み・未配置の両方を表示する。選択中の付箋を直接編集する既存の操作も維持する。
+
 ## サイドバーの位置
 
 歯車の設定から付箋・詳細サイドバーを左右で選ぶ。初期値は右。端末内に保存し、再起動後も保持する。横画面では中央の詳細メモを挟んで左右を入れ替える。同じゾーンの識別子を保って並べ替え、選択・メモ下書きを保持する。ドラッグは実際の画面座標で判定する。詳細は[サイドバーの仕様](issue-23.md)を参照。
